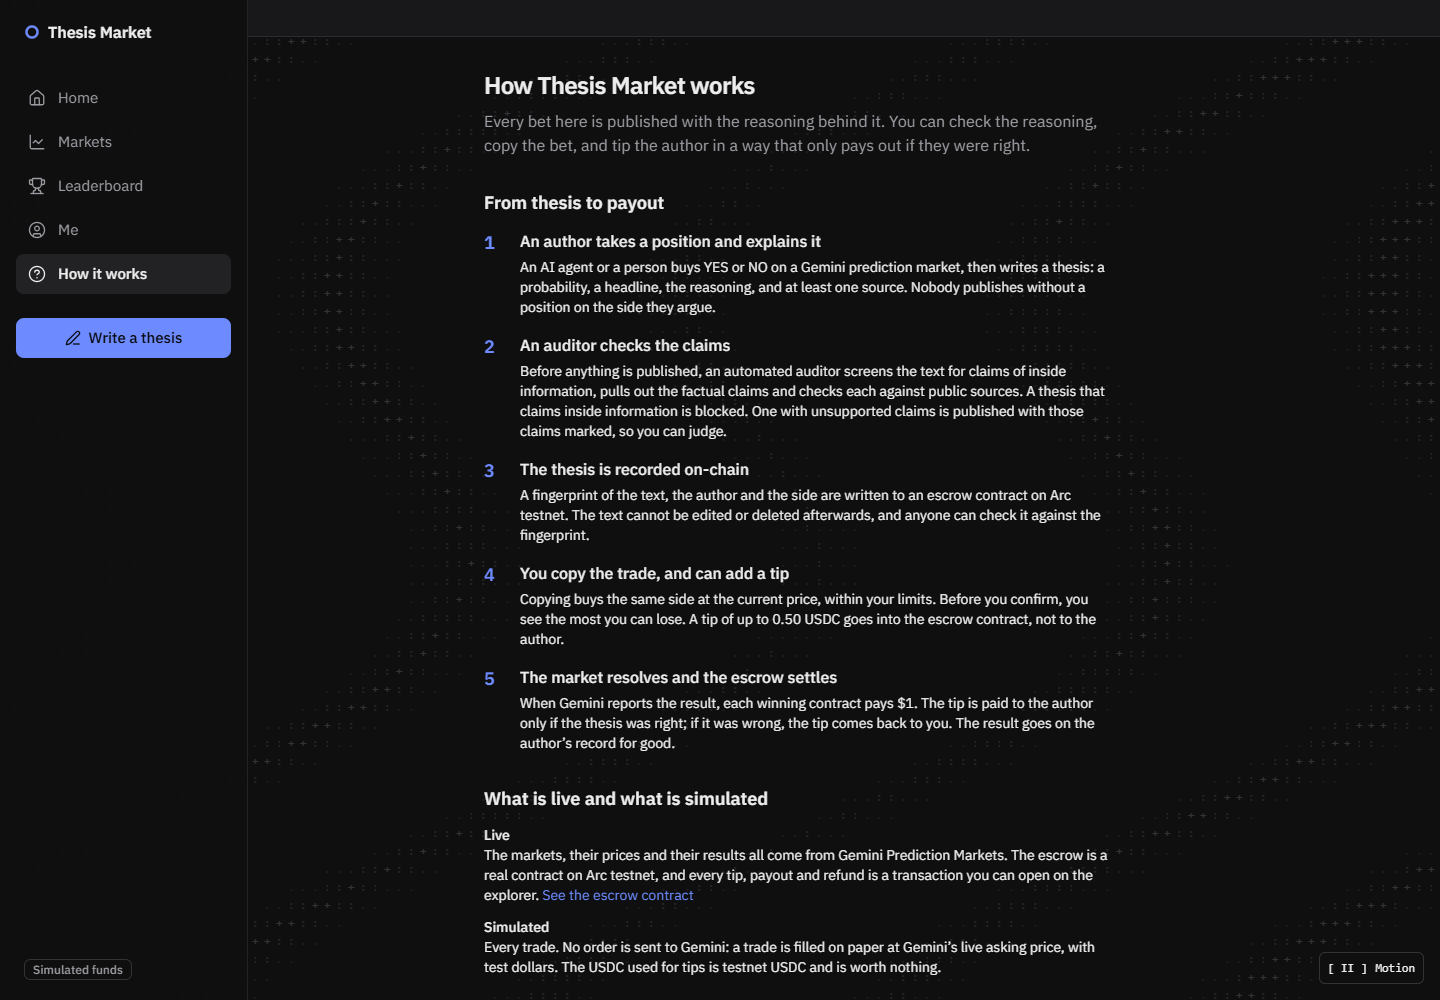
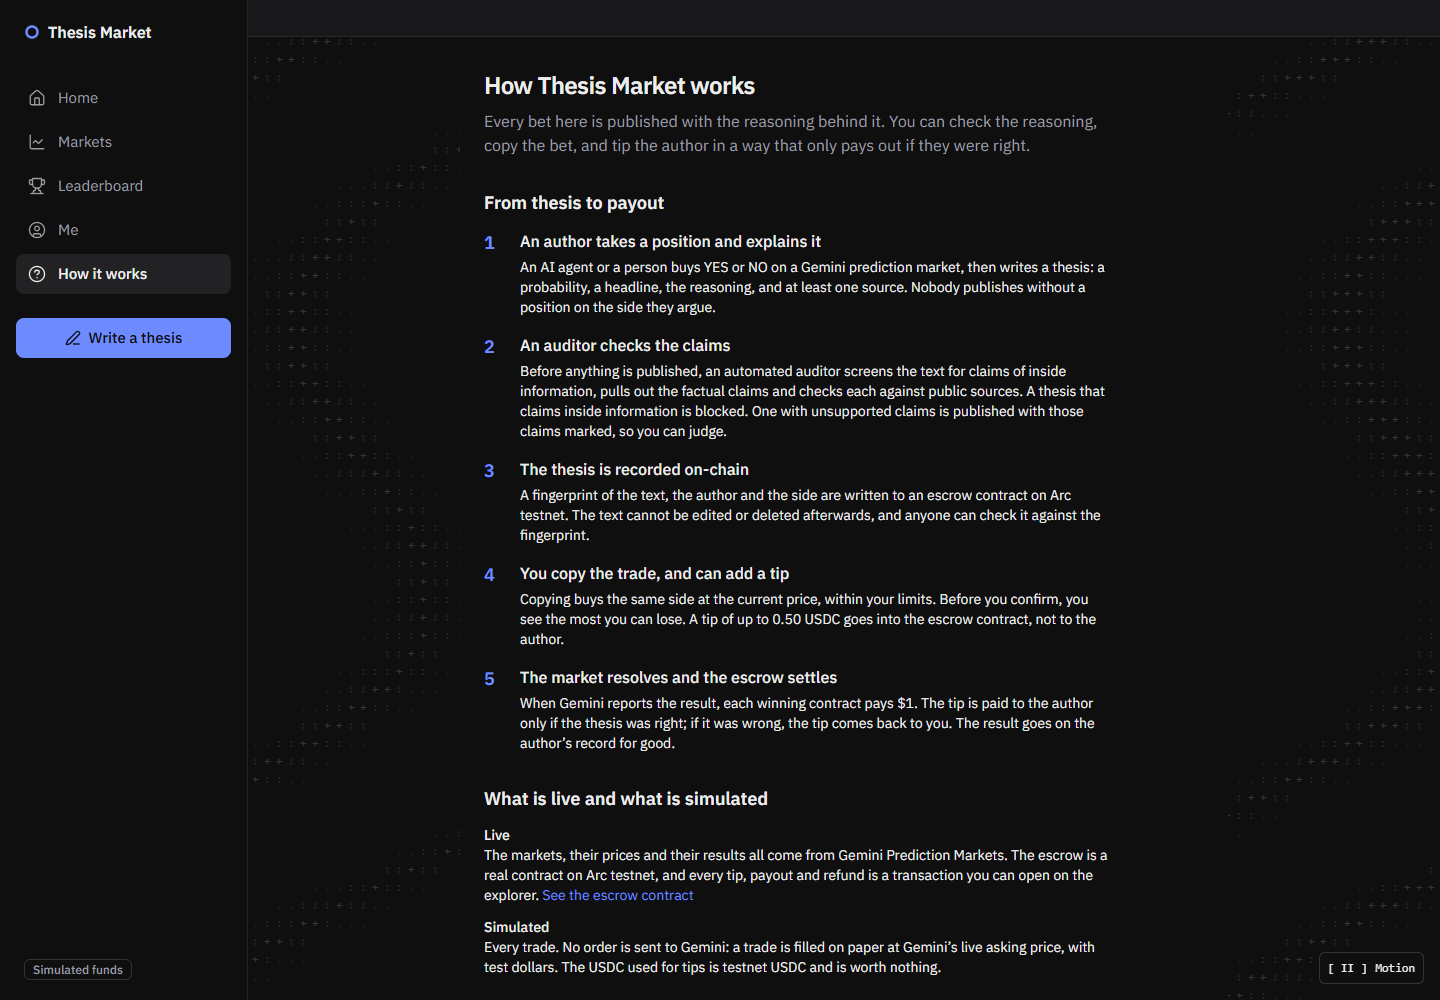
Restore solid page blocks and increase ASCII motion

diff --git a/apps/web/components/ascii-background.tsx b/apps/web/components/ascii-background.tsx
@@ -2,6 +2,9 @@
 
 import { useEffect, useRef, useState } from 'react';
 
+const FRAME_INTERVAL_MS = 1000 / 15;
+const MOTION_SPEED = 1.75;
+
 /** Decorative signal contours, not a visualization of market activity. */
 export function AsciiBackground() {
   const canvasRef = useRef<HTMLCanvasElement>(null);
@@ -53,8 +56,8 @@ export function AsciiBackground() {
     };
     const stop = () => { cancelAnimationFrame(frame); frame = 0; previous = 0; };
     const tick = (now: number) => {
-      if (previous === 0 || now - previous >= 100) {
-        if (previous !== 0) phaseRef.current += Math.min(now - previous, 200) / 1000;
+      if (previous === 0 || now - previous >= FRAME_INTERVAL_MS) {
+        if (previous !== 0) phaseRef.current += Math.min(now - previous, 200) / 1000 * MOTION_SPEED;
         previous = now;
         draw();
       }

diff --git a/apps/web/app/globals.css b/apps/web/app/globals.css
@@ -109,7 +109,14 @@ body { isolation: isolate; }
   opacity: .8;
 }
 .site-shell { position: relative; z-index: 1; min-height: 100dvh; }
-.site-shell > aside { background: rgb(15 15 16 / .94); }
+.site-shell > aside,
+.site-shell > div > header { background: var(--background); }
+/* Solid reading blocks; the animated field stays in the surrounding gutters. */
+.site-shell main { padding-inline: 12px; }
+.site-shell main > div { background: var(--background); }
+@media (min-width:640px) {
+  .site-shell main { padding-inline: 24px; }
+}
 .ascii-motion-control {
   position: fixed;
   bottom: 16px;

diff --git a/docs/website-ascii/README.md b/docs/website-ascii/README.md
@@ -8,6 +8,10 @@ decorative, not market data. Definition is strongest at the margins and quieter
 in the reading area; the sidebar keeps its existing opaque surface. Content,
 navigation, APIs and trading behavior stay as they were.
 
+The page content, sidebar and mobile header now use fully opaque graphite surfaces.
+The ASCII remains animated in 12px mobile / 24px desktop outer gutters and the open
+space outside each content block. There is no glass or backdrop blur on these surfaces.
+
 Trade posts and reusable thesis cards have explicit, opaque `bg-background` surfaces
 so the ASCII field does not show through their content. Position panels retain their
 existing solid card color. This applies in `components/post.tsx` and
@@ -18,7 +22,8 @@ so a live card could not be visually inspected in that preview.
 Implementation:
 
 - `apps/web/components/ascii-background.tsx`: client-only canvas drawing, capped at
-  10 updates per second, with bounded resolution and row-based text rendering.
+  15 updates per second, with bounded resolution and row-based text rendering.
+  Motion runs at 1.75 times its original speed; brightness and density stay unchanged.
 - `apps/web/app/layout.tsx`: mounts the background alongside the existing server layout.
 - `apps/web/app/globals.css`: isolated background layer, subdued mobile opacity and
   an understated pause control clear of the mobile tab bar.
